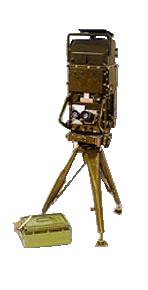
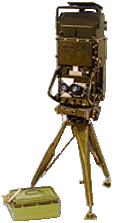
style fixes

diff --git a/MiKTeX/sec_lit_review.tex b/MiKTeX/sec_lit_review.tex
@@ -6,11 +6,11 @@
 Разработанная в ходе дипломного проектировании система функционального контроля технических средств не имеет широко
 известных прямых аналогов. Отсутствие конкурирующих систем вызвано тем следующими причинами:
 \begin{itemize}
-	\item технические средства, предназначенные для нужд армии имеют ограниченное распространение
-	\item протоколы обмена данными между техническими средствами и ЭВМ зачастую являются закрытыми
+	\item технические средства, предназначенные для нужд армии имеют ограниченное распространение;
+	\item протоколы обмена данными между техническими средствами и ЭВМ зачастую являются закрытыми;
 	\item модуль функционального контроля зачастую является частью закрытого проприетарного ПО, используемого для
-		автоматизации задач личного состава
-	\item разнообразие устройств, протоколов обмена
+		автоматизации задач личного состава;
+	\item разнообразие устройств, протоколов обмена.
 \end{itemize}
 
 Таким образом, ввиду невозможности поиска аналогов среди ПО для вооруженных сил, в данном разделе будут проанализированы
@@ -21,7 +21,7 @@
 
 \begin{figure}[ht]
 	\centering
-	\includegraphics[scale=0.36]{rw_control}
+	\includegraphics[scale=0.40]{rw_control}
 	\caption{Модуль функционального контроля системы автоматизации РЖД~\cite{rus_rails}}
 	\label{fig:lit_reiview:analogues:rw_control}
 \end{figure}
@@ -33,9 +33,9 @@
 Основные достоинства программы:
 \begin{itemize}
 	\item удобный интерфейс(использована аналогия с действующими устройствами ввода-вывода информации в
-		железнодорожной автоматике и телемеханике(ЖАТ))
-	\item вывод информации в иерархическом виде
-	\item возможность вывода разного набора информации пользователям в зависимости от должности владельца ПК
+		железнодорожной автоматике и телемеханике(ЖАТ));
+	\item вывод информации в иерархическом виде;
+	\item возможность вывода разного набора информации пользователям в зависимости от должности владельца ПК.
 \end{itemize}
 
 К недостаткам можно отнести закрытость ПО, отсутствие кроссплатформенности(поддерживается только ОС Windows).
@@ -52,7 +52,7 @@
 
 \begin{figure}[ht]
 	\centering
-	\includegraphics[scale=1.0]{ax518_soft}
+	\includegraphics[scale=1.2]{ax518_soft}
 	\caption{Программный модуль системы тестирования электронных устройств AX518~\cite{AX518}}
 	\label{fig:lit_reiview:analogues:ax518_soft}
 \end{figure}
@@ -64,15 +64,15 @@
 КМУ -- комплекс машин управления.
 В состав комплекса машин управления огнем входят:
 \begin{itemize}
-	\item машина управления командира дивизиона~\cite{div_car}
-	\item командно-штабная машина дивизиона
-	\item машина управления командира батареи
-	\item машина управления старшего офицера батареи
+	\item машина управления командира дивизиона~\cite{div_car};
+	\item командно-штабная машина дивизиона;
+	\item машина управления командира батареи;
+	\item машина управления старшего офицера батареи.
 \end{itemize}
 
 \begin{figure}[ht]
 	\centering
-	\includegraphics[scale=0.33]{div_com}
+	\includegraphics[scale=0.35]{div_com}
 	\caption{Машина начальника штаба дивизиона на колесном шасси~\cite{div_car}}
 	\label{fig:lit_reiview:analytics:div_com}
 \end{figure}
@@ -92,7 +92,7 @@
 
 \begin{figure}[ht]
 	\centering
-	\includegraphics[scale=0.40]{arm}
+	\includegraphics[scale=0.45]{arm}
 	\caption{Автоматизированное рабочее место~\cite{patent_2263960}}
 	\label{fig:lit_reiview:analytics:arm}
 \end{figure}
@@ -116,19 +116,25 @@
 
 Аппаратура позволяет  решать весь комплекс задач топопривязки, навигации и ориентирования средств ракетных войск и артиллерии в любое время в любых погодных условиях независимо от доступности сигналов СНС:
 \begin{itemize}
-	\item определение текущих координат объекта на стоянке (огневой позиции, районе сосредоточения), в ходе совершения марша
-	\item определение углов ориентации подвижных объектов (азимутального угла продольной оси машины, углов крена и тангажа)
-	\item автоматическое определения по сигналам спутниковых навигационных систем (далее СНС) GPS/GLONASS текущего единого и местного времени с использованием поправок на часовой пояс
-	\item отображение на мониторе бортовой ЭВМ, индикаторных панелях текущих значений координат и высоты, а также скорости, угла продольной оси машины
-	\item отображение на мониторе бортовой ЭВМ навигационной и топогеодезической информации на электронных картах местности собственного местоположения
+	\item определение текущих координат объекта на стоянке (огневой позиции, районе сосредоточения), в ходе
+		совершения марша;
+	\item определение углов ориентации подвижных объектов (азимутального угла продольной оси машины, углов крена и
+		тангажа);
+	\item автоматическое определения по сигналам спутниковых навигационных систем (далее СНС) GPS/GLONASS текущего
+		единого и местного времени с использованием поправок на часовой пояс;
+	\item отображение на мониторе бортовой ЭВМ, индикаторных панелях текущих значений координат и высоты, а также
+		скорости, угла продольной оси машины;
+	\item отображение на мониторе бортовой ЭВМ навигационной и топогеодезической информации на электронных картах
+		местности собственного местоположения.
 \end{itemize}
 
 Состав интегрированного навигационно-информационного комплекса:
 \begin{itemize}
-	\item блок спутниковый навигационный (БСН) с цифровым датчиком атмосферного давления
-	\item цифровой одометрический датчик пути
-	\item блок управления и обработки данных
-	\item блок инерциальный навигационный измерительный на основе высокоточных акселерометров и волоконно-оптических гироскопов
+	\item блок спутниковый навигационный (БСН) с цифровым датчиком атмосферного давления;
+	\item цифровой одометрический датчик пути;
+	\item блок управления и обработки данных;
+	\item блок инерциальный навигационный измерительный на основе высокоточных акселерометров и волоконно-оптических
+		гироскопов.
 \end{itemize}
 
 Ниже приведен краткий обзор компонентов комплекса INS.
@@ -137,6 +143,12 @@
 \label{sub:lit_review:ins:evm}
 ПЭВМ серии БК402 служит для выполнения вычислительных функций в подвижных объектах на гусеничном и колесном ходу в закрытых кузовах
 как на стоянке так и в движении. Возможно также использование ПЭВМ в стационарных условиях~\cite{bk402}.
+\begin{figure}[ht]
+	\centering
+	\includegraphics[scale=2.0]{bk402}
+	\caption{Бортовая персональная электронная вычислительная машина серии БК402~\cite{bk402}}
+	\label{fig:lit_reiview:ins:evm:bk402}
+\end{figure}
 
 Состав ПЭВМ:
 \begin{itemize}
@@ -153,17 +165,11 @@
 
 Особенности и преимущества ПЭВМ:
 \begin{itemize}
-	\item наличие встроенного коммутатора на 4 порта, позволяющего применять данную модификацию для  построения локальных вычислительных сетей без применения внешнего коммутатора.
-	\item наличие элементов крепления для установки их в подвижном объекте.
+	\item наличие встроенного коммутатора на 4 порта, позволяющего применять данную модификацию для построения
+		локальных вычислительных сетей без применения внешнего коммутатора;
+	\item наличие элементов крепления для установки их в подвижном объекте;
 	\item наличие в корпусе амортизационной платформы и внутренних амортизаторов, обеспечивающих  выполнение требований к механическим воздействиям.
 \end{itemize}
-
-\begin{figure}[ht]
-	\centering
-	\includegraphics[scale=1.2]{bk402}
-	\caption{Бортовая персональная электронная вычислительная машина серии БК402~\cite{bk402}}
-	\label{fig:lit_reiview:ins:evm:bk402}
-\end{figure}
 
 \subsubsection{Бесплатформенная инерциальная навигационная система}
 \label{sub:lit_review:ins:bins}
@@ -182,7 +188,7 @@
 \end{itemize}
 \begin{figure}[ht]
 	\centering
-	\includegraphics[scale=3.0]{bins}
+	\includegraphics[scale=4.5]{bins}
 	\caption{Бесплатформенная инерциальная навигационная система БИНС-Тек~\cite{bins}}
 	\label{fig:lit_reiview:ins:bins}
 \end{figure}
@@ -196,15 +202,16 @@
 
 Применение радиостанций:
 \begin{itemize}
-	\item тактическое звено управления вооруженных сил
-	\item использование в танках, БМП, БТР, автомобилях
-	\item оснащение воинских подразделений наблюдения и разведки, должностных лиц уровней командования батальонами (дивизионами), ротами (батареями) и взводами
-	\item оснащение командных пунктов вооруженных сил пунктов управления и узлов связи рот, батальонов и бригад
+	\item тактическое звено управления вооруженных сил;
+	\item использование в танках, БМП, БТР, автомобилях;
+	\item оснащение воинских подразделений наблюдения и разведки, должностных лиц уровней командования батальонами
+		(дивизионами), ротами (батареями) и взводами;
+	\item оснащение командных пунктов вооруженных сил пунктов управления и узлов связи рот, батальонов и бригад.
 \end{itemize}
 
-\begin{figure}[ht]
+\begin{figure}[htb]
 	\centering
-	\includegraphics[scale=0.33]{radio_station}
+	\includegraphics[scale=0.4]{radio_station}
 	\caption{Радиостанция серии <<Р-181>> <<Рапсодия>>~\cite{prc9661}}
 	\label{fig:lit_reiview:meteo:radio_station}
 \end{figure}
@@ -212,9 +219,9 @@
 \subsubsection{Блок спутниковый навигационный}
 \label{sub:lit_review:ins:bsn}
 Блок спутниковый навигационный (БСН) с цифровым датчиком атмосферного давления предназначен для приема сигналов ГЛОНАСС/GPS, включает защищенную антенну и малогабаритный приемник-измеритель.
-\begin{figure}[ht]
+\begin{figure}
 	\centering
-	\includegraphics[scale=1.0]{bsn}
+	\includegraphics[scale=0.7]{bsn}
 	\caption{Блок спутниковый навигационный~\cite{bsn}}
 	\label{fig:lit_reiview:ins:bsn}
 \end{figure}
@@ -231,9 +238,9 @@
 Автоматическая метеостанция(АМС) это комплексный универсальный метеорологический модуль - компактное и легкое
 устройство, оснащенное набором датчиков, необходимых для измерения основных метеорологических величин ~\cite{wxt530}:
 \begin{itemize}
-	\item направления и скорости ветра
-	\item атмосферного давления
-	\item температуры и относительной влажности
+	\item направления и скорости ветра;
+	\item атмосферного давления;
+	\item температуры и относительной влажности.
 \end{itemize}
 
 АМС с успехом применяется в ракетных войсках и артиллерии для определения метеорологических условий стрельбы, расчет суммарных поправок на отклонение условий стрельбы.
@@ -242,9 +249,9 @@
 Используемые материалы обладают высокой устойчивостью к различным загрязнения и суровым погодным условиям.
 Модуль соединяется с приемным устройством двунаправленной линией передачи.
 
-\begin{figure}[ht]
+\begin{figure}
 	\centering
-	\includegraphics[scale=0.3]{meteo_station}
+	\includegraphics[scale=0.40]{meteo_station}
 	\caption{Автоматическая метеостанция WXT530~\cite{wxt530}}
 	\label{fig:lit_reiview:meteo:meteo_station}
 \end{figure}
@@ -260,9 +267,9 @@
 Разъемы питания и интерфейсов (USB/LPT)\break принтера –высоконадежные «военные» байонетные металлические с металлической защитной заглушкой.
 Интерфейс – высокоскоростной параллельный ECP/EPP и/или USB.
 
-\begin{figure}[ht]
+\begin{figure}
 	\centering
-	\includegraphics[scale=1.0]{printer}
+	\includegraphics[scale=1.4]{printer}
 	\caption{Специальный принтер МП2200~\cite{mp2200}}
 	\label{fig:lit_reiview:spec_printer:printer}
 \end{figure}
@@ -287,20 +294,26 @@
 	\item окуляром с OLED-микродисплеем (дисплеем на основе плоскостных органических светодиодов).
 \end{itemize}
 
-\begin{figure}[ht]
+\begin{figure}
 	\centering
-	\includegraphics[scale=1.0]{kaponir_img}
+	\includegraphics[scale=0.7]{kaponir_img}
 	\caption{Прибор-дальномер <<Капонир>>~\cite{kaponir}}
 	\label{fig:lit_reiview:kaponir:kaponir_img}
 \end{figure}
 
 \subsection{Лазерный целеуказатель-дальномер}
-\label{sub:lit_review:lcd}
 Лазерный целеуказатель-дальномер 1Д22 предназначен для разведки целей и обслуживания стрельбы наземной и корабельной
 артиллерии обычными и высокоточными артиллерийскими боеприпасами с полуактивной лазерной системой наведения, а
 также для обеспечения применения высокоточных боеприпасов при подсветке лазерным излучением неподвижных и движущихся объектов
 вооружения и военной техники, инженерных сооружений, для корректировки артиллерийского огня с выносных наземных наблюдательных
 пунктов или из машин управления огнем~\cite{lcd}.
+\label{sub:lit_review:lcd}
+\begin{figure}[h]
+	\centering
+	\includegraphics[scale=1.0]{lcd_img}
+	\caption{Лазерный целеуказатель-дальномер 1Д22~\cite{lcd}}
+	\label{fig:lit_reiview:lcd:lcd_img}
+\end{figure}
 
 Прибор ЛЦД обеспечивает: 
 \begin{itemize}
@@ -309,10 +322,3 @@
 	\item измерение дальности до целей (объектов), разрывов снарядов (мин);
 	\item осуществление целеуказания (лазерный подсвет цели) при наведении управляемых артиллерийских боеприпасов.
 \end{itemize}
-
-\begin{figure}[ht]
-	\centering
-	\includegraphics[scale=1.0]{lcd_img}
-	\caption{Лазерный целеуказатель-дальномер 1Д22~\cite{lcd}}
-	\label{fig:lit_reiview:lcd:lcd_img}
-\end{figure}

diff --git a/MiKTeX/sec_modules.tex b/MiKTeX/sec_modules.tex
@@ -46,7 +46,6 @@ for (quint8 i = 0; i < groups.size(); i++) {
 	pItemGroup->setData(0, Qt::UserRole, Qt::Checked);
 	pItemGroup->setData(1, Qt::UserRole, 0);
 
-
 	pItemGroup->setHidden(true);
 }
 \end{minted}
@@ -333,8 +332,6 @@ void QTestPrinter::print(QPrinter * printer)
   QFont font = paint.font();
   font.setPointSize(16);
   paint.setFont(font);
-
-
 
   qreal left, top, right, bottom;
 
@@ -630,3 +627,107 @@ void Journal::addFilterDevices()
 списке фильтров. В случае наличия данного устройства в списке фильтров, добавление устройства в список устройств
 фильтра не производится. При отсутствии устройства в списке происходит добавление данного устройства в фильтр с
 созданием соответствующего чекбокса.
+
+%\medskip
+%\begin{minted}{c++}
+%void Journal::result()
+%{
+	%ui.tableWidget_JSON->setRowCount(0);
+	%ui.tableWidget_JSON->setColumnCount(0);
+	%quint8 success = 0;
+
+	%QList<QString> checkDevices;
+
+	%if(!ui.checkBoxAllDevices->checkState())
+	%{
+		%for(int i = 0; i < LFD.size(); i++)
+			%if(LFD[i].caseCheckBox->checkState())
+				%checkDevices.push_back(LFD[i].deviceName);
+	%}
+
+	%for(int i = 0; i < devices.size(); i++)
+	%{
+		%if(devices[i].timeTest >= ui.dateTimeEdit_since->dateTime() && devices[i].timeTest <= ui.dateTimeEdit_to->dateTime())
+		%{
+			%if(!success)
+				%success = 1;
+			%for(int j = 0; j < devices[i].device.size(); j++)
+			%{
+				%if(((ui.checkBox_showServiceable->checkState() && !devices[i].device[j].result) || !ui.checkBox_showServiceable->checkState()) && (!checkDevices.size() || checkDevices.contains(devices[i].device[j].deviceName)) && !(!ui.checkBoxAllDevices->checkState() && !checkDevices.size()))
+				%{
+					%if(success != 3)
+					%{
+						%ui.tableWidget_JSON->insertColumn(0);
+						%ui.tableWidget_JSON->setHorizontalHeaderItem(0, new QTableWidgetItem(tr("Время провидения тестирования")));
+						%ui.tableWidget_JSON->insertColumn(1);
+						%ui.tableWidget_JSON->setHorizontalHeaderItem(1, new QTableWidgetItem(tr("Устройство")));
+						%ui.tableWidget_JSON->insertColumn(2);
+						%ui.tableWidget_JSON->setHorizontalHeaderItem(2, new QTableWidgetItem(tr("Результат тестирования")));
+						%if(ui.checkBox_info->checkState())
+						%{
+							%ui.tableWidget_JSON->insertColumn(3);
+							%ui.tableWidget_JSON->setHorizontalHeaderItem(3, new QTableWidgetItem(tr("Дополнительная информация")));
+							%ui.tableWidget_JSON->horizontalHeader()->resizeSection(0, 260);
+							%ui.tableWidget_JSON->horizontalHeader()->resizeSection(1, 260);
+							%ui.tableWidget_JSON->horizontalHeader()->resizeSection(2, 190);
+							%ui.tableWidget_JSON->horizontalHeader()->setResizeMode(3, QHeaderView::Stretch);
+						%}
+						%else
+						%{
+							%ui.tableWidget_JSON->horizontalHeader()->setResizeMode(0, QHeaderView::Stretch);
+							%ui.tableWidget_JSON->horizontalHeader()->setResizeMode(1, QHeaderView::Stretch);
+							%ui.tableWidget_JSON->horizontalHeader()->setResizeMode(2, QHeaderView::Stretch);
+						%}
+					%}
+					%ui.tableWidget_JSON->insertRow(ui.tableWidget_JSON->rowCount());
+					%devices[i].device[j].idInTable = ui.tableWidget_JSON->rowCount() - 1;
+					%QTableWidgetItem *item = new QTableWidgetItem;
+					%item->setText(devices[i].timeTest.toString("yyyy-MM-dd HH:mm:ss"));
+					%item->setFlags(Qt::ItemIsSelectable|Qt::ItemIsEnabled);
+					%item->setTextAlignment(Qt::AlignCenter);
+					%ui.tableWidget_JSON->setItem(ui.tableWidget_JSON->rowCount()-1, 0, item);
+					%QTableWidgetItem *item2 = new QTableWidgetItem;
+					%item2->setText(devices[i].device[j].deviceName);
+					%item2->setFlags(Qt::ItemIsSelectable|Qt::ItemIsEnabled);
+					%item2->setTextAlignment(Qt::AlignCenter);
+					%ui.tableWidget_JSON->setItem(ui.tableWidget_JSON->rowCount()-1, 1, item2);
+					%QTableWidgetItem *item3 = new QTableWidgetItem;
+					%if(devices[i].device[j].result)
+						%item3->setText(tr("Исправно"));
+					%else
+					%{
+						%item3->setText(tr("Неисправно"));
+						%item3->setData(Qt::TextColorRole, Qt::red);
+					%}
+					%item3->setTextAlignment(Qt::AlignCenter);
+					%item3->setFlags(Qt::ItemIsSelectable|Qt::ItemIsEnabled);
+					%ui.tableWidget_JSON->setItem(ui.tableWidget_JSON->rowCount()-1, 2, item3);
+					%if(ui.checkBox_info->checkState())
+					%{
+						%QTableWidgetItem *item4 = new QTableWidgetItem;
+						%item4->setText(devices[i].device[j].info);
+						%item4->setFlags(Qt::ItemIsSelectable|Qt::ItemIsEnabled);
+						%item4->setTextAlignment(Qt::AlignCenter);
+						%ui.tableWidget_JSON->setItem(ui.tableWidget_JSON->rowCount()-1, 3, item4);
+					%}
+					%success = 3;
+				%}
+				%else
+					%devices[i].device[j].idInTable = -1;
+			%}
+		%}
+	%}
+	%if(success == 0)
+	%{
+		%QMessageBox::information(0, tr("Нет данных"), tr("Нет тестов за указанный промежуток времени"));
+	%}
+	%else if(success == 1)
+	%{
+		%if(!ui.checkBoxAllDevices->checkState() && !checkDevices.size())
+			%QMessageBox::information(0, tr("Нет данных"), tr("Не выбрано ни одного устройства"));
+		%else
+			%QMessageBox::information(0, tr("Нет данных"), tr("Нет неисправных устройств в тестах за указанный промежуток времени"));
+	%}
+%}
+%\end{minted}
+%\medskip

diff --git a/MiKTeX/preamble.tex b/MiKTeX/preamble.tex
@@ -503,3 +503,5 @@
 
 \setminted[c++]{fontfamily=tt,fontsize=\small,xleftmargin=1.25cm,breaklines=true,tabsize=4}
 \setminted[JSON]{fontfamily=tt,fontsize=\small,xleftmargin=1.25cm,breaklines=true,tabsize=2}
+
+\setlength{\belowcaptionskip}{-10pt}
